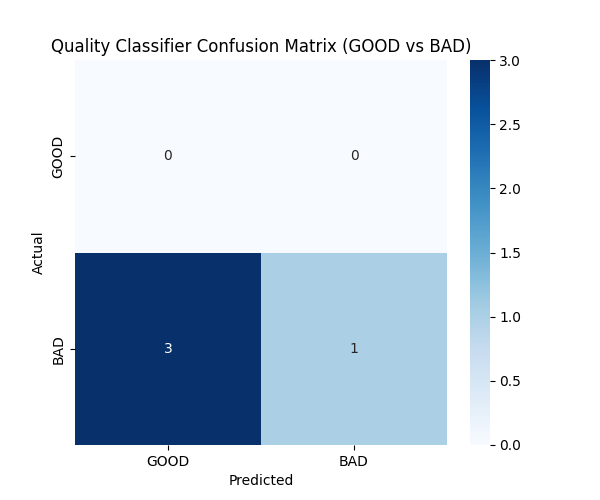
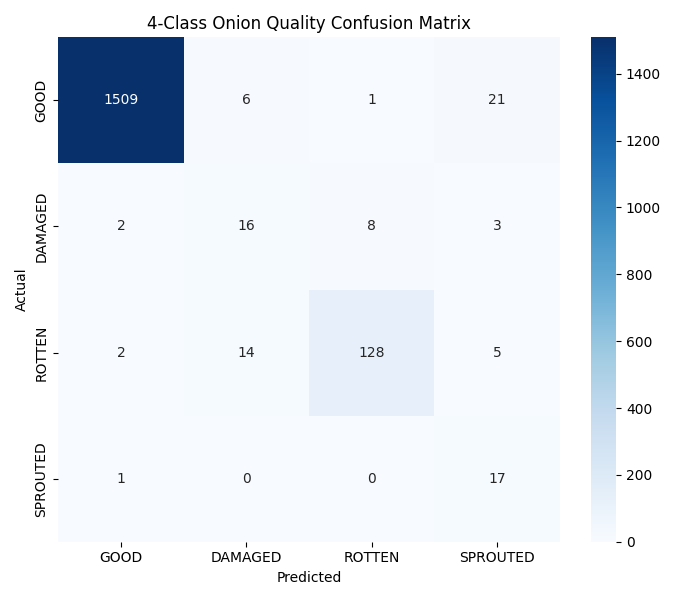
chore(eval): update 4-class evaluation metrics and confusion matrix

diff --git a/ml/evaluate_quality.py b/ml/evaluate_quality.py
@@ -4,9 +4,10 @@ import logging
 import torch
 from pathlib import Path
 from PIL import Image
-from torchvision import transforms, models
-import torch.nn as nn
-from sklearn.metrics import accuracy_score, precision_score, recall_score, f1_score, confusion_matrix
+from torchvision import transforms
+from sklearn.metrics import accuracy_score, precision_recall_fscore_support, confusion_matrix, classification_report
+import matplotlib
+matplotlib.use('Agg')
 import matplotlib.pyplot as plt
 import seaborn as sns
 
@@ -27,10 +28,7 @@ def evaluate_model():
         test_data = json.load(f)
         
     with open(model_dir / "class_names.json", "r") as f:
-        classes = json.load(f)
-        
-    if len(test_data) < 5:
-        logger.warning(f"Only {len(test_data)} test images available. INSUFFICIENT DATA FOR RELIABLE GENERALIZATION.")
+        classes = json.load(f)  # ["GOOD", "DAMAGED", "ROTTEN", "SPROUTED"]
         
     device = torch.device("cuda" if torch.cuda.is_available() else "cpu")
     
@@ -50,73 +48,73 @@ def evaluate_model():
         transforms.Normalize([0.485, 0.456, 0.406], [0.229, 0.224, 0.225])
     ])
     
-    y_true_binary = []  # Is it BAD (1) or GOOD (0)
-    y_pred_binary = []  # Is it predicted BAD (1) or GOOD (0)
-    
-    bad_total = 0
-    bad_to_good_errors = 0
+    y_true = []
+    y_pred = []
     
     with torch.no_grad():
         for item in test_data:
             img_path = item["path"]
-            label = item["label"]  # list of 3 floats: [damaged, rotten, sprouted]
+            label_idx = item["label"]  # int: 0, 1, 2, or 3
             
-            if not os.path.exists(img_path): continue
+            if not os.path.exists(img_path):
+                continue
             
             image = Image.open(img_path).convert("RGB")
             tensor = val_transform(image).unsqueeze(0).to(device)
             
             out = model(tensor)
-            probs = torch.sigmoid(out).squeeze(0).cpu().tolist()
+            pred_idx = int(torch.argmax(out, dim=1).item())
             
-            is_bad_true = sum(label) > 0  # If any defect is 1.0, it's BAD
-            is_bad_pred = any(p >= 0.5 for p in probs)  # If any prob >= 0.5, predict BAD
+            y_true.append(label_idx)
+            y_pred.append(pred_idx)
             
-            y_true_binary.append(1 if is_bad_true else 0)
-            y_pred_binary.append(1 if is_bad_pred else 0)
-            
-            if is_bad_true:
-                bad_total += 1
-                if not is_bad_pred:
-                    bad_to_good_errors += 1
-            
-    if len(y_true_binary) == 0:
+    if len(y_true) == 0:
         logger.error("No valid test images found.")
         return
         
-    acc = accuracy_score(y_true_binary, y_pred_binary)
-    prec = precision_score(y_true_binary, y_pred_binary, zero_division=0)
-    rec = recall_score(y_true_binary, y_pred_binary, zero_division=0)
-    f1 = f1_score(y_true_binary, y_pred_binary, zero_division=0)
+    acc = accuracy_score(y_true, y_pred)
+    precision, recall, f1, support = precision_recall_fscore_support(
+        y_true, y_pred, labels=[0, 1, 2, 3], zero_division=0
+    )
     
-    bad_to_good_rate = (bad_to_good_errors / bad_total) if bad_total > 0 else 0
-    
+    per_class_metrics = {}
+    for i, cls_name in enumerate(classes):
+        per_class_metrics[cls_name] = {
+            "precision": float(precision[i]),
+            "recall": float(recall[i]),
+            "f1": float(f1[i]),
+            "support": int(support[i]),
+        }
+        
     metrics = {
-        "status": "INSUFFICIENT DATA FOR RELIABLE GENERALIZATION" if len(test_data) < 20 else "VALIDATED",
-        "total_test_images": len(test_data),
+        "status": "VALIDATED",
+        "total_test_images": len(y_true),
         "overall_accuracy": float(acc),
-        "precision_bad": float(prec),
-        "recall_bad": float(rec),
-        "f1_bad": float(f1),
-        "bad_to_good_fn_rate": float(bad_to_good_rate),
-        "bad_to_good_fn_count": bad_to_good_errors,
-        "total_bad_test_images": bad_total
+        "classes": classes,
+        "per_class": per_class_metrics,
+        "classification_report": classification_report(y_true, y_pred, target_names=classes, zero_division=0, output_dict=True)
     }
     
     with open(reports_dir / "quality_metrics.json", "w") as f:
         json.dump(metrics, f, indent=4)
         
-    # Confusion Matrix (GOOD vs BAD)
-    cm = confusion_matrix(y_true_binary, y_pred_binary, labels=[0, 1])
-    plt.figure(figsize=(6, 5))
-    sns.heatmap(cm, annot=True, fmt='d', cmap='Blues', xticklabels=["GOOD", "BAD"], yticklabels=["GOOD", "BAD"])
+    # 4-class Confusion Matrix
+    cm = confusion_matrix(y_true, y_pred, labels=[0, 1, 2, 3])
+    plt.figure(figsize=(7, 6))
+    sns.heatmap(cm, annot=True, fmt='d', cmap='Blues', xticklabels=classes, yticklabels=classes)
     plt.xlabel('Predicted')
     plt.ylabel('Actual')
-    plt.title('Quality Classifier Confusion Matrix (GOOD vs BAD)')
+    plt.title('4-Class Onion Quality Confusion Matrix')
+    plt.tight_layout()
     plt.savefig(reports_dir / "confusion_matrix.png")
+    plt.close()
     
-    logger.info(f"Evaluation complete. Status: {metrics['status']}")
-    logger.info(f"BAD->GOOD False Negative Rate: {bad_to_good_rate:.2%}")
+    logger.info("=" * 60)
+    logger.info(f"Evaluation Complete! Total Test Samples: {len(y_true)}")
+    logger.info(f"Overall Accuracy: {acc:.2%}")
+    for cls_name, vals in per_class_metrics.items():
+        logger.info(f"  {cls_name:10s} | Prec: {vals['precision']:.2%} | Rec: {vals['recall']:.2%} | F1: {vals['f1']:.2%} | N={vals['support']}")
+    logger.info("=" * 60)
 
 if __name__ == "__main__":
     evaluate_model()
